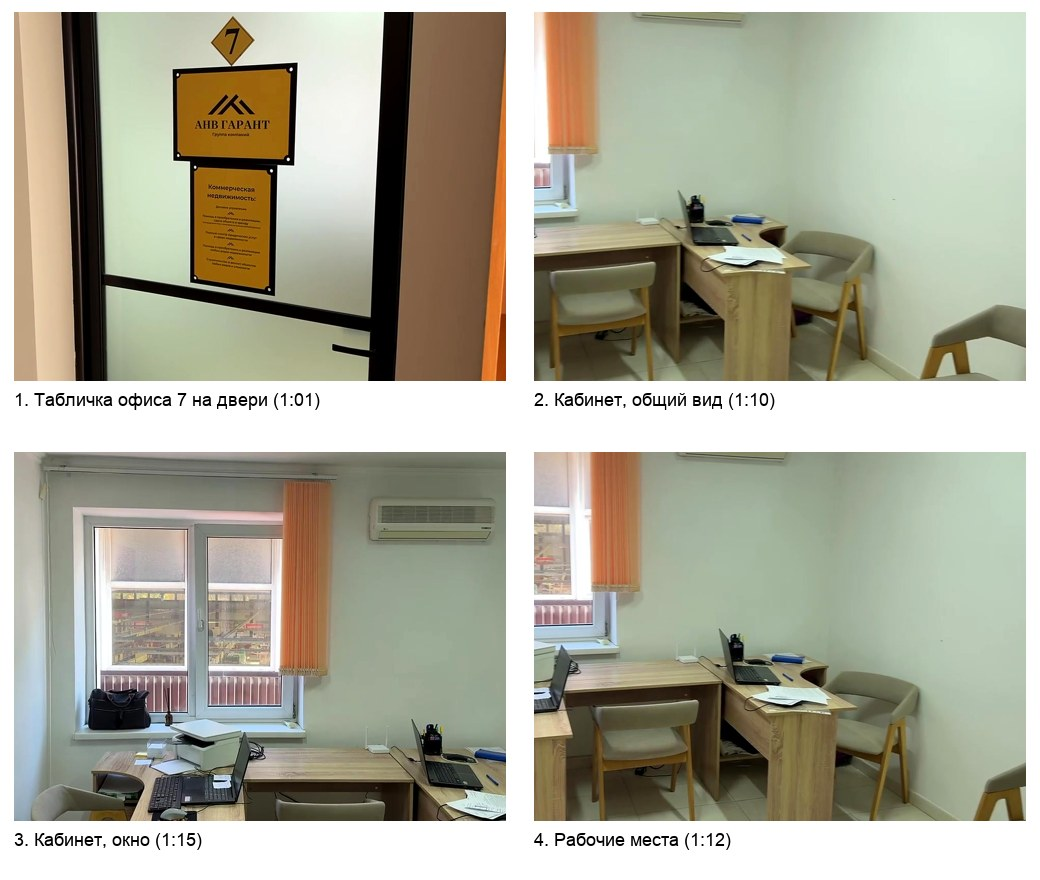
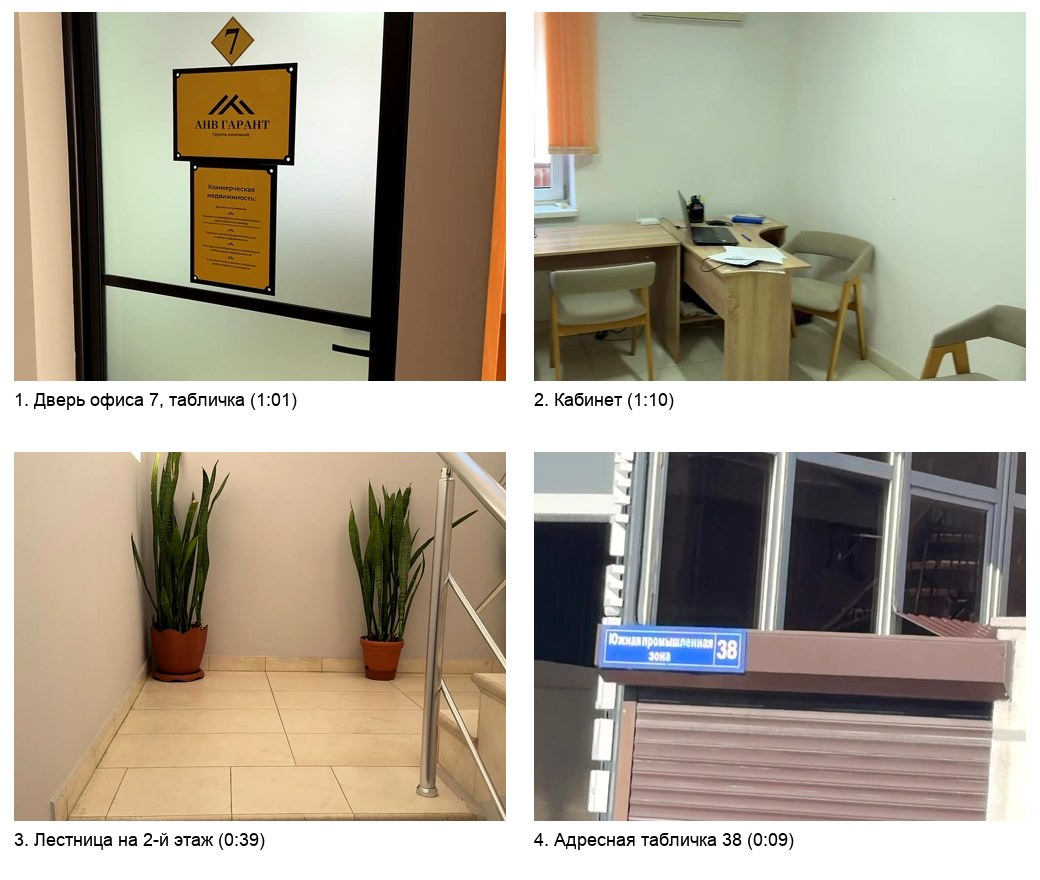
Фото Геленджика: четыре разные сцены вместо дублей кабинета

diff --git a/фото/для карточек/README.md b/фото/для карточек/README.md
@@ -7,17 +7,30 @@
 
 | Файл | Что на фото | Таймкод |
 |---|---|---|
-| `gelendzhik-01-tablichka.jpg` | табличка «офис 7» и логотип на двери | 1:01 |
-| `gelendzhik-02-kabinet.jpg` | кабинет, общий вид | 1:10 |
-| `gelendzhik-03-kabinet-okno.jpg` | кабинет, окно | 1:15 |
-| `gelendzhik-04-rabochie-mesta.jpg` | рабочие места | 1:12 |
+| `gelendzhik-01-dver.jpg` | дверь офиса 7, табличка и логотип | 1:01 |
+| `gelendzhik-02-kabinet.jpg` | кабинет | 1:10 |
+| `gelendzhik-03-lestnica.jpg` | лестница на 2-й этаж | 0:39 |
+| `gelendzhik-04-adres.jpg` | адресная табличка «38» | 0:09 |
 
-Размер 1200×900 (4:3) — рекомендация Яндекс Бизнеса и Google. Те же кадры в
-16:9 лежат в `16x9/`. Загружать по порядку номеров: первая — обложка.
+Это четыре разные сцены, а не четыре кабинета: адрес → лестница → дверь → кабинет,
+то есть путь к офису. Первый файл — обложка, остальные можно грузить в любом
+порядке, а 3-й и 4-й — по желанию.
+
+Размер 1200×900 (4:3) — рекомендация Яндекс Бизнеса и Google. Те же кадры в 16:9
+лежат в `16x9/`.
+
+## Почему кабинет один
+
+В видео один кабинет. Резать его на три кадра — дубли, поэтому оставлен один
+общий вид. Больше разных фото из этого видео не выжать.
+
+Если нужно 5–6 фото, снимать так: фасад с угла, где не попадают чужие вывески;
+входная дверь с улицы; кабинет от двери; стол крупно; окно; логотип на стене.
+Днём, без людей, телефоном горизонтально.
 
 ## Что не берём и почему
 
-- **Все `.webp` из корня `фото/`** — это старые адреса, они уже стоят на закрытых
+- **Все `.webp` из корня `фото/`** — старые адреса, они уже стоят на закрытых
   карточках. Дзержинского, 156А, БЦ «Южный»: `2.webp`, `XL.webp`, `3.webp`,
   `4.webp`. Советов, 42, БЦ «Черноморский»: `5.webp`, `6.webp`, `7.webp`,
   `11.webp`, `4444.webp`, `2323.webp`, `222.webp`. На карточки Исаева и
@@ -32,8 +45,7 @@
 ## Чего нет
 
 Фото офиса на Исаева, 2Б (Новороссийск). В папке только старые адреса, на
-карточке Исаева сейчас одна аватарка. Нужна съёмка 4–6 кадров: вывеска или вход,
-кабинет, переговорная, рабочее место. Днём, без людей, телефоном горизонтально.
+карточке Исаева сейчас одна аватарка. Список кадров на съёмку — выше.
 
 ## Важно
 
